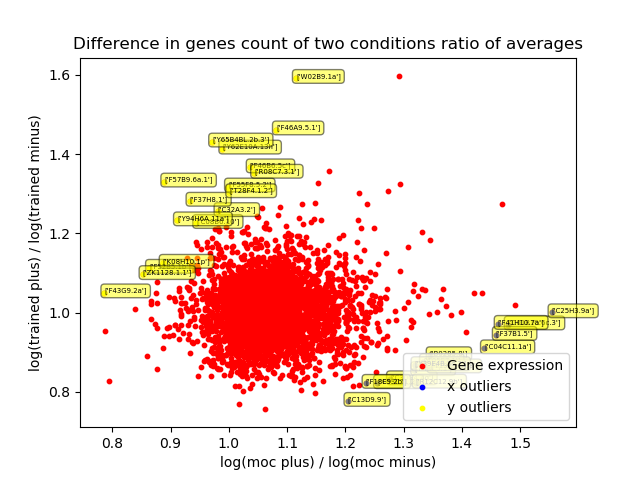
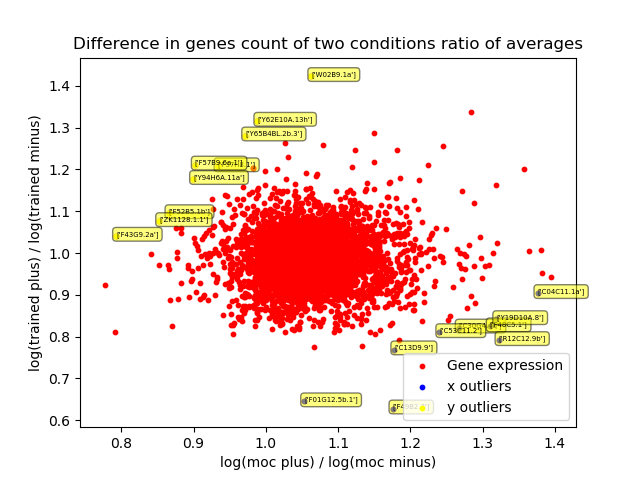
Added fold change calculator

diff --git a/TestConditionSet.py b/TestConditionSet.py
@@ -1,4 +1,6 @@
 import numpy as np
+
+from FoldChangeCalculator import FoldChangeCalculator
 from PvalueCalculator import PvalueCalculator
 
 moc_minus_index = 0
@@ -26,6 +28,18 @@ class TestConditionSet:
 
         return calculator_moc.calc_p_value(), calculator_trn.calc_p_value()
 
+    def calculate_fold_changes(self):
+
+        calculator_moc = FoldChangeCalculator(
+            self.conditions[moc_minus_index],
+            self.conditions[moc_plus_index])
+
+        calculator_trn = FoldChangeCalculator(
+            self.conditions[trn_minus_index],
+            self.conditions[trn_plus_index])
+
+        return calculator_moc.calculate_fold_change(), calculator_trn.calculate_fold_change()
+
     def delete_by_threshold(self, threshold):
 
         union_indeces = np.array([])
@@ -37,30 +51,3 @@ class TestConditionSet:
             condition.delete_and_log(union_indeces)
 
         return union_indeces
-
-    def calculate_ratio_of_average(self):
-
-        averages = [
-            condition.get_averages_over_repetitions()
-            for condition in self.conditions
-        ]
-
-        ratio_moc = distance_func(averages[moc_minus_index], averages[moc_plus_index])
-        ratio_trn = distance_func(averages[trn_minus_index], averages[trn_plus_index])
-
-        return ratio_moc, ratio_trn
-
-    def calculate_average_of_ratio(self):
-
-        ratio_moc = distance_func(self.get_condition_repetitions(moc_minus_index),
-                                  self.get_condition_repetitions(moc_plus_index))
-        ratio_trn = distance_func(self.get_condition_repetitions(trn_minus_index),
-                                  self.get_condition_repetitions(trn_plus_index))
-
-        average_moc = np.average(ratio_moc, axis=1)
-        average_trn = np.average(ratio_trn, axis=1)
-
-        return average_moc, average_trn
-
-    def get_condition_repetitions(self, index):
-        return self.conditions[index].repetitions

diff --git a/PvalueCalculator.py b/PvalueCalculator.py
@@ -13,6 +13,14 @@ class PvalueCalculator:
         self.leftCondition = leftCondition
         self.rightCondition = rightCondition
 
+    def calc_p_value(self):
+        log_likelihood_ratio = self.calc_log_likelihood_ratio()
+        value_for_chisquare = -2 * log_likelihood_ratio
+
+        # The Pvalue will  be 1 when chi2.cdf(value_for_chisquare, 1) is zero, that happens when the value_for_chisquare < 0.
+        p_value = 1 - chi2.cdf(value_for_chisquare, 1)
+        return p_value
+
     def calc_log_likelihood_ratio(self):
         left_repetitions = self.leftCondition.repetitions
         right_repetitions = self.rightCondition.repetitions
@@ -23,11 +31,3 @@ class PvalueCalculator:
         all_product = calc_poisson_product(all_repetitions)
 
         return np.log(all_product / (left_product * right_product))
-
-    def calc_p_value(self):
-        log_likelihood_ratio = self.calc_log_likelihood_ratio()
-        value_for_chisquare = -2 * log_likelihood_ratio
-
-        # The Pvalue will  be 1 when chi2.cdf(value_for_chisquare, 1) is zero, that happens when the value_for_chisquare < 0.
-        p_value = 1 - chi2.cdf(value_for_chisquare, 1)
-        return p_value

diff --git a/fold_change.py b/fold_change.py
@@ -19,14 +19,9 @@ def run():
 
     test_condition_set = experiment_results.create_test_condition_set(indeces, threshold)
 
-    ratio_moc, ratio_trn = test_condition_set.calculate_ratio_of_average()
+    ratio_moc, ratio_trn = test_condition_set.calculate_fold_changes()
 
     show_results(experiment_results.gene_names, ratio_moc, ratio_trn)
-
-    ratio_moc, ratio_trn = test_condition_set.calculate_average_of_ratio()
-
-    show_results(experiment_results.gene_names, ratio_moc, ratio_trn)
-
 
 if __name__ == '__main__':
     run()

diff --git a/FoldChangeCalculator.py b/FoldChangeCalculator.py
@@ -1,0 +1,14 @@
+def distance_func(x, y):
+    return x / y
+
+
+class FoldChangeCalculator:
+    def __init__(self, leftCondition, rightCondition):
+        self.leftCondition = leftCondition
+        self.rightCondition = rightCondition
+
+    def calculate_fold_change(self):
+        leftAverage = self.leftCondition.get_averages_over_repetitions()
+        rightAverage = self.rightCondition.get_averages_over_repetitions()
+        return distance_func(leftAverage, rightAverage)
+
